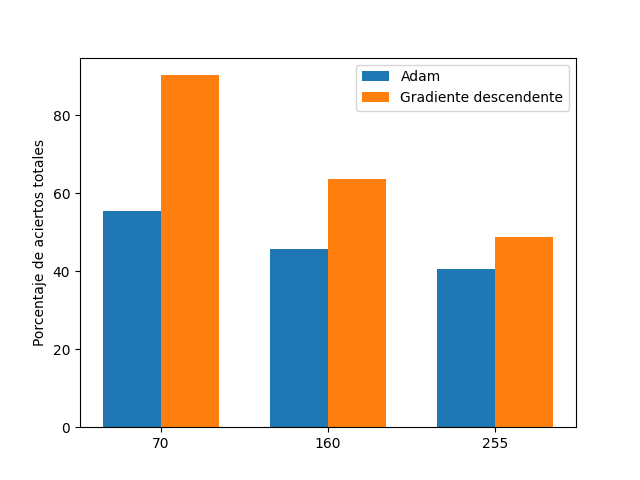
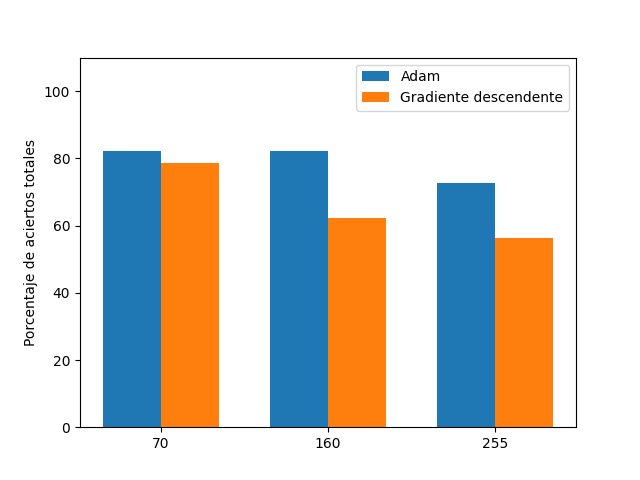
graphs: Graphs 3c

diff --git a/tp3/ej3/utils/ej3_C_utils.py b/tp3/ej3/utils/ej3_C_utils.py
@@ -35,6 +35,7 @@ def get_image_path(num, noise, noisy, i):
 def vary_update_method(times, noises, values, perceptron_adam, perceptron_gd):
     results_by_noise = []
     for noise in noises:
+        print(f'Noise: {noise}')
         adam_correct_percentage = []
         gd_correct_percentage = []
         for num in values:
@@ -62,7 +63,7 @@ def vary_update_method(times, noises, values, perceptron_adam, perceptron_gd):
         # Añadir etiquetas y leyendas
         ax.set_ylabel('Porcentaje')
         ax.set_xticks(indices)
-        ax.set_title('Noise level = ' + str(noise))
+        ax.set_ylim(0, 110)
         ax.legend()
 
         plt.savefig(f'Aciertos_vs_Nro_por_ActMetodo_noise_{noise}.png')
@@ -88,6 +89,7 @@ def vary_update_method(times, noises, values, perceptron_adam, perceptron_gd):
     ax.set_ylabel('Porcentaje de aciertos totales')
     ax.set_xticks(indices)
     ax.set_xticklabels(noises)
+    ax.set_ylim(0, 110)
     ax.legend()
 
     plt.savefig('Aciertos_vs_Ruido_por_ActMetodo.png')
@@ -97,7 +99,7 @@ def vary_update_method(times, noises, values, perceptron_adam, perceptron_gd):
     plt.plot(perceptron_gd.error_by_iteration, color='orange', label='Gradiente descendente')
     plt.legend()
     plt.ylabel('Error')
-    plt.xlabel('Epoca')
+    plt.xlabel('Época')
     plt.savefig('Error_vs_Epoca_por_ActMetodo.png')
     plt.clf()
 
@@ -117,28 +119,68 @@ def basic_learning_rate_bar_graph(x, y, y_label):
     plt.clf()
 
 
-def vary_learning_rate(times, values, perceptrons, learning_rates, noise):
-    percentage_by_learning_rate = []
-    for perceptron in perceptrons:
-        perceptron.train()
-        result = 0
+def vary_learning_rate(times, values, perceptrons_a, perceptrons_b, learning_rates, noise):
+    percentage_by_learning_rate_a = []
+    percentage_by_learning_rate_b = []
+    for p_a, p_b in zip(perceptrons_a, perceptrons_b):
+        p_a.train()
+        p_b.train()
+        r_a = 0
+        r_b = 0
         for num in values:
             for i in range(times):
                 test_matrix = load_number_image(get_image_path(num['digit'], noise, True, i))
                 test = np.ravel(test_matrix)
-                if np.array_equal(np.array(perceptron.get_result(test)), np.array(num['expected'])):
-                    result += 1
-        percentage_by_learning_rate.append(100 * (result / (times * len(values))))
+                if np.array_equal(np.array(p_a.get_result(test)), np.array(num['expected'])):
+                    r_a += 1
+                if np.array_equal(np.array(p_b.get_result(test)), np.array(num['expected'])):
+                    r_b += 1
+        percentage_by_learning_rate_a.append(100 * (r_a / (times * len(values))))
+        percentage_by_learning_rate_b.append(100 * (r_b / (times * len(values))))
 
-    basic_learning_rate_bar_graph(learning_rates, percentage_by_learning_rate, 'Aciertos(%)')
+    plt.clf()
+    indices = np.array([0.1 * (1 + i) for i in range(10)])
 
-    basic_learning_rate_bar_graph(learning_rates, [perceptron.epochs for perceptron in perceptrons], 'Epocas')
+    width = 0.025
+
+    plt.bar(indices - width / 2, percentage_by_learning_rate_a, width, color='orange', label='adam')
+    plt.bar(indices + width / 2, percentage_by_learning_rate_b, width, color='blue', label='gradiente descendente')
+
+    plt.xlabel('Tasa de aprendizaje')
+    plt.ylabel('Porcentaje de aciertos')
+    plt.ylim(0, 110)
+    plt.title('')
+    plt.xticks(indices)
+    plt.legend()
+    plt.savefig('LA_vs_Aciertos(%).png')
+    plt.clf()
+
+    plt.clf()
+    indices = np.array([0.1 * (1 + i) for i in range(10)])
+
+    width = 0.025
+
+    plt.bar(indices - width / 2, [p.epochs for p in perceptrons_a], width, color='orange', label='adam')
+    plt.bar(indices + width / 2, [p.epochs for p in perceptrons_b], width, color='blue', label='gradiente descendente')
+
+    plt.xlabel('Tasa de aprendizaje')
+    plt.ylabel('Épocas totales')
+    plt.title('')
+    plt.xticks(indices)
+    plt.legend()
+    plt.savefig(f'LA_vs_Epocas.png')
+    plt.clf()
+
+    # basic_learning_rate_bar_graph(learning_rates, percentage_by_learning_rate, 'Aciertos(%)')
+    #
+    # basic_learning_rate_bar_graph(learning_rates, [perceptron.epochs for perceptron in perceptrons], 'Epocas')
 
     # Plot error by iteration for 3 cases
-    plt.plot(perceptrons[0].error_by_iteration, color='red', label='T.A. = 0.1')
-    plt.plot(perceptrons[4].error_by_iteration, color='blue', label='T.A. = 0.5')
-    plt.plot(perceptrons[9].error_by_iteration, color='green', label='T.A. = 1.0')
-    plt.xlabel('Epoca')
+    plt.plot(perceptrons_a[0].error_by_iteration, color='red', label='adam & T.A. = 0.1')
+    plt.plot(perceptrons_a[9].error_by_iteration, color='blue', label='adam & T.A. = 1.0')
+    plt.plot(perceptrons_b[0].error_by_iteration, color='green', label='Gradiente Descendente & T.A. = 0.1')
+    plt.plot(perceptrons_b[9].error_by_iteration, color='orange', label='Gradiente Descendente & T.A. = 1.0')
+    plt.xlabel('Época')
     plt.ylabel('Error')
     plt.legend()
     plt.savefig('Error_vs_Epoca_por_LA.png')

diff --git a/tp3/ej3/ej3.c.py b/tp3/ej3/ej3.c.py
@@ -32,7 +32,10 @@ if __name__ == '__main__':
     vary_update_method(times, noises, values, perceptron_adam, perceptron_gd)
 
     learning_rates = [(0.1 + 0.1 * i) for i in range(10)]
-    perceptrons = [MultiLayerPerceptron(perceptron_by_layer, points, "step", expected, 0.00001, learning_rate, "adam")
+    perceptrons_a = [MultiLayerPerceptron(perceptron_by_layer, points, "step", expected, 0.00001, learning_rate, "adam")
                    for learning_rate in learning_rates]
 
-    vary_learning_rate(times, values, perceptrons, learning_rates, 160)
+    perceptrons_b = [MultiLayerPerceptron(perceptron_by_layer, points, "step", expected, 0.00001, learning_rate, "gradient_descent")
+               for learning_rate in learning_rates]
+
+    vary_learning_rate(times, values, perceptrons_a, perceptrons_b, learning_rates, 160)

diff --git a/tp3/multilayer/utils.py b/tp3/multilayer/utils.py
@@ -1,3 +1,5 @@
+import random
+
 import numpy as np
 
 
@@ -12,7 +14,10 @@ def create_mean_and_std_matrix(perceptron_by_layer):
 # create an initial random weight  matrix
 def create_weights_by_layer(perceptron_by_layer):
     weights_by_layer = []
+
     for index in range(len(perceptron_by_layer) - 1):
+        random.seed(100541)
+        np.random.seed(100541)
         weights = np.random.normal(0, 0.5, size=(perceptron_by_layer[index + 1], perceptron_by_layer[index]))
         weights_by_layer.append(weights)
     return weights_by_layer
